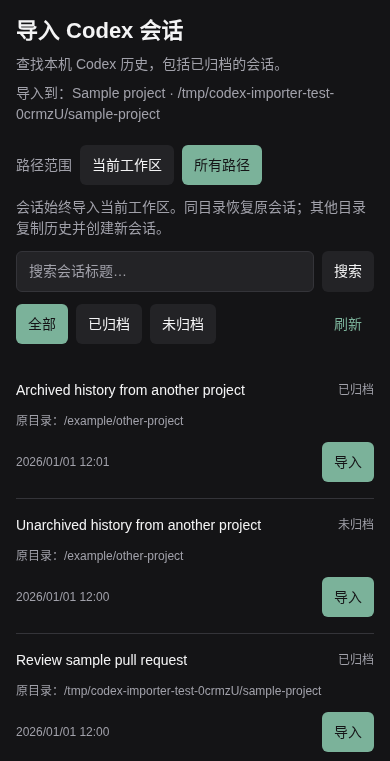
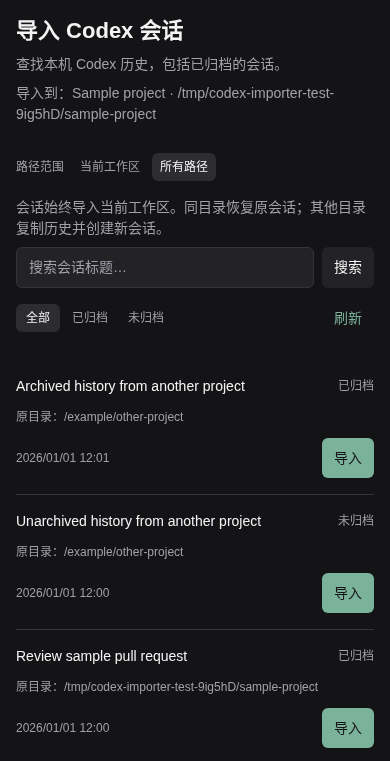
Make session filters compact and neutral

diff --git a/client/session-picker.tsx b/client/session-picker.tsx
@@ -61,6 +61,53 @@ function firstCursor(): string | null {
 const statusChoices: ReadonlyArray<SessionStatus> = ["all", "archived", "active"];
 const scopeChoices: ReadonlyArray<SessionScope> = ["workspace", "all"];
 
+function SessionFilterOption({
+  label,
+  selected,
+  onPress,
+  colors,
+}: {
+  label: string;
+  selected: boolean;
+  onPress(): void;
+  colors: PluginTheme["colors"];
+}) {
+  return (
+    <Pressable
+      accessibilityRole="button"
+      accessibilityLabel={label}
+      accessibilityState={{ selected }}
+      onPress={onPress}
+      // Keep a full touch target around the compact visible segment on every client.
+      style={{ minHeight: 44, minWidth: 44, justifyContent: "center" }}
+    >
+      {({ pressed }) => (
+        <View
+          style={{
+            minHeight: 28,
+            paddingHorizontal: 8,
+            paddingVertical: 4,
+            borderRadius: 6,
+            alignItems: "center",
+            justifyContent: "center",
+            backgroundColor: selected ? colors.surface2 : pressed ? colors.surface1 : "transparent",
+          }}
+        >
+          <Text
+            style={{
+              fontSize: 12,
+              lineHeight: 18,
+              color: selected ? colors.foreground : colors.foregroundMuted,
+            }}
+          >
+            {label}
+          </Text>
+        </View>
+      )}
+    </Pressable>
+  );
+}
+
 export function SessionPicker(props: SessionPickerProps) {
   const { colors } = props.theme;
   const { t, locale } = useTranslation(messages);
@@ -190,33 +237,22 @@ export function SessionPicker(props: SessionPickerProps) {
           </Text>
         </View>
 
-        <View style={{ gap: 12 }}>
-          <View style={{ flexDirection: "row", flexWrap: "wrap", alignItems: "center", gap: 8 }}>
-            <Text style={muted}>{t("scopeLabel")}</Text>
+        <View style={{ gap: 8 }}>
+          <View style={{ flexDirection: "row", flexWrap: "wrap", alignItems: "center", gap: 4 }}>
+            <Text style={{ ...muted, fontSize: 12, lineHeight: 18, marginEnd: 4 }}>
+              {t("scopeLabel")}
+            </Text>
             {scopeChoices.map((value) => {
               const selected = filters.scope === value;
               const label = t(value === "workspace" ? "currentWorkspace" : "allPaths");
               return (
-                <Pressable
+                <SessionFilterOption
                   key={value}
-                  accessibilityRole="button"
-                  accessibilityLabel={label}
-                  accessibilityState={{ selected }}
+                  label={label}
+                  selected={selected}
+                  colors={colors}
                   onPress={() => dispatch({ type: "scope", value })}
-                  style={{
-                    ...control,
-                    backgroundColor: selected ? colors.accent : colors.surface1,
-                  }}
-                >
-                  <Text
-                    style={{
-                      ...text,
-                      color: selected ? colors.accentForeground : colors.foreground,
-                    }}
-                  >
-                    {label}
-                  </Text>
-                </Pressable>
+                />
               );
             })}
           </View>
@@ -252,31 +288,18 @@ export function SessionPicker(props: SessionPickerProps) {
               <Text style={text}>{t("search")}</Text>
             </Pressable>
           </View>
-          <View style={{ flexDirection: "row", flexWrap: "wrap", alignItems: "center", gap: 8 }}>
+          <View style={{ flexDirection: "row", flexWrap: "wrap", alignItems: "center", gap: 4 }}>
             {statusChoices.map((value) => {
               const label = t(value);
               const selected = filters.status === value;
               return (
-                <Pressable
+                <SessionFilterOption
                   key={value}
-                  accessibilityRole="button"
-                  accessibilityLabel={label}
-                  accessibilityState={{ selected }}
+                  label={label}
+                  selected={selected}
+                  colors={colors}
                   onPress={() => dispatch({ type: "status", value })}
-                  style={{
-                    ...control,
-                    backgroundColor: selected ? colors.accent : colors.surface1,
-                  }}
-                >
-                  <Text
-                    style={{
-                      ...text,
-                      color: selected ? colors.accentForeground : colors.foreground,
-                    }}
-                  >
-                    {label}
-                  </Text>
-                </Pressable>
+                />
               );
             })}
             <View style={{ flex: 1 }} />

diff --git a/server/codex.ts b/server/codex.ts
@@ -90,7 +90,7 @@ export class CodexConnection {
       clientInfo: {
         name: "paseo_codex_importer",
         title: "Codex session importer",
-        version: "0.2.0",
+        version: "0.2.1",
       },
     });
     this.write({ method: "initialized", params: {} });

diff --git a/README.md b/README.md
@@ -24,7 +24,7 @@ For an existing GitHub installation, review and apply the update with:
 paseo plugin update codex-importer
 ```
 
-To install this release directly, add `--ref v0.2.0` to the install command. To update an existing installation to this release without a prompt, use `paseo plugin update codex-importer --ref v0.2.0`.
+To install this release directly, add `--ref v0.2.1` to the install command. To update an existing installation to this release without a prompt, use `paseo plugin update codex-importer --ref v0.2.1`.
 
 ## Use
 

diff --git a/README.zh-CN.md b/README.zh-CN.md
@@ -24,7 +24,7 @@ paseo plugin install github:tenlee2012/paseo-codex-importer
 paseo plugin update codex-importer
 ```
 
-安装本次发布版本可在安装命令后加 `--ref v0.2.0`。现有安装也可执行 `paseo plugin update codex-importer --ref v0.2.0`，直接更新到指定版本。
+安装本次发布版本可在安装命令后加 `--ref v0.2.1`。现有安装也可执行 `paseo plugin update codex-importer --ref v0.2.1`，直接更新到指定版本。
 
 ## 使用
 
